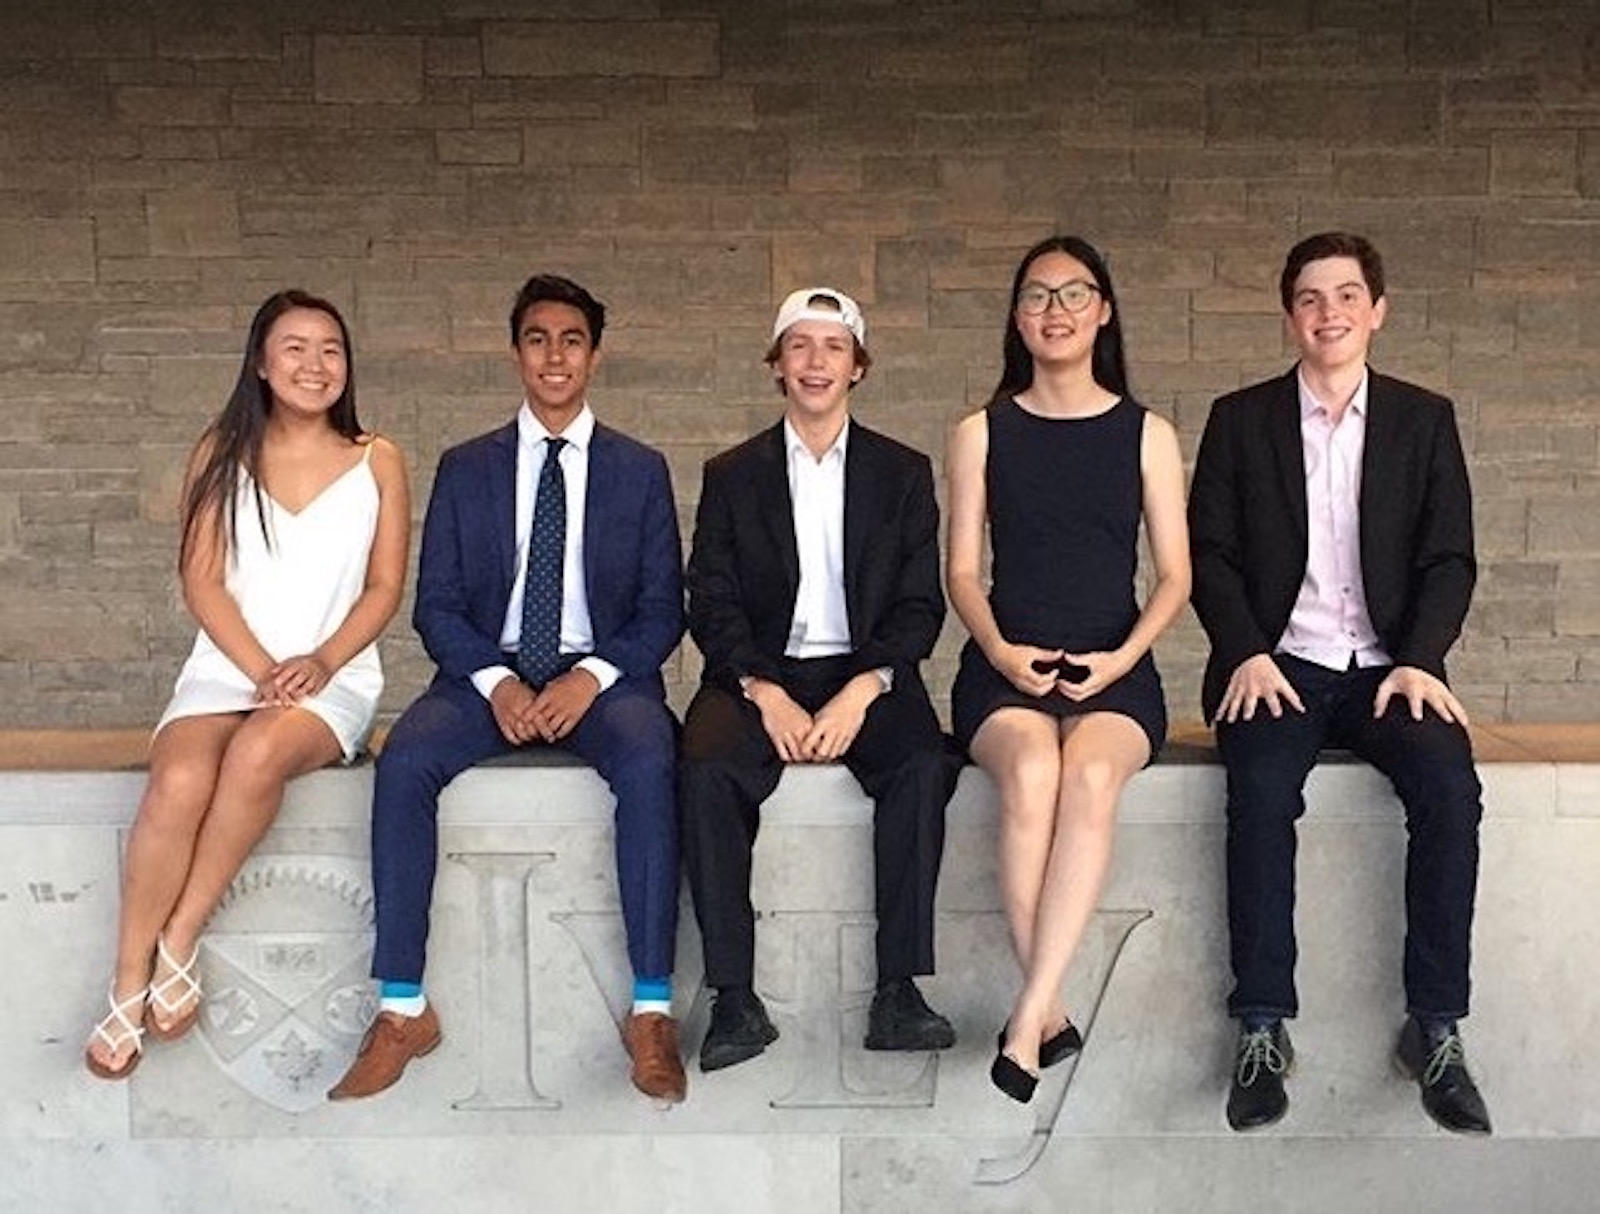
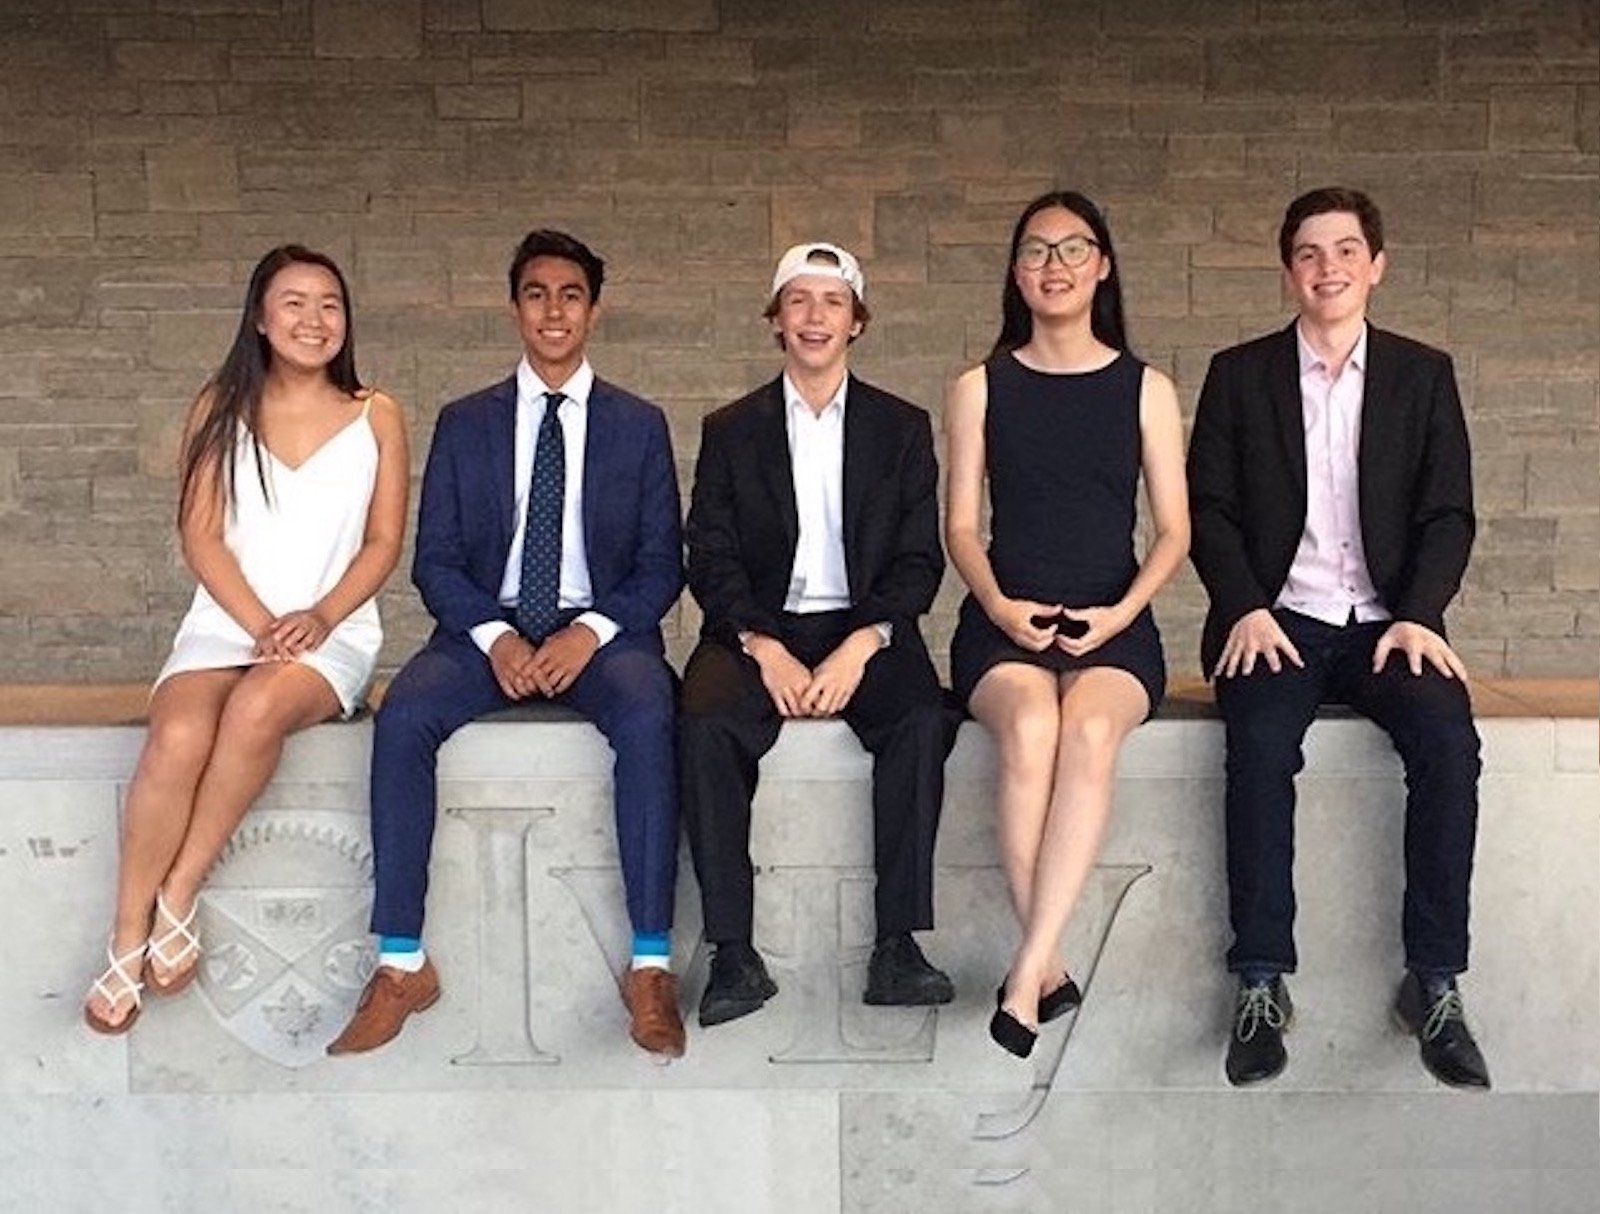
cover photo

diff --git a/index.html b/index.html
@@ -22,20 +22,10 @@
 
   <style>
 
-    #Home {
-      padding-top: 20px;
-      padding-bottom: 20px;
-    }
-
-    .cover-photo {
-      background-image: url("images/IveyPhoto.jpg");
-      background-image: rgba(51,,51,51,0.5) !important;
-      width: 100%;
-      height: 100%;
-      top: -126;
+    #coverPhoto {
+      top: 0;
       left: 0;
       position: relative;
-
     }
 
   	#AboutMe {
@@ -295,20 +285,6 @@
       transform: rotate(45deg); 
     }
 
-    /** Background photo top */
-
-    .thumbnail {
-      position: relative;
-    }
-
-    .caption {
-      position: absolute;
-      top: 45%;
-      left: 0;
-      width: 100%;
-    }
-
-
   </style>
   
   <body>
@@ -341,27 +317,7 @@
       </div>
     </nav>
 
-    <div class="row">
-      <div class="thumbnail text-center">
-          <img src="img/IveyPhoto.jpg" alt="" class="img-responsive">
-          <div class="caption">
-              <p>Hi! My name is Jack Douglas. This is my personal website. Have a look around!</p>
-          </div>
-      </div>
-    </div>
-
-    <!--
-    <section id="Home">
-        <div class="col-md-12" style="text-align: center;">
-          <p2 id="intro1"> Hi! My name is <p style="font-size: 48px;"> <b> Jack Douglas</b>.</p></p2>
-          <p3 id="intro3"> This is my personal website. Have a look around! </p3>
-          <div class="cover-photo">
-          </div>
-        </div>
-      </div>
-    </section>
-
--->
+    <img src="images/CoverPhoto.jpg" id="coverPhoto"> </img>
 
     <section id="AboutMe">
       <div class="container">
